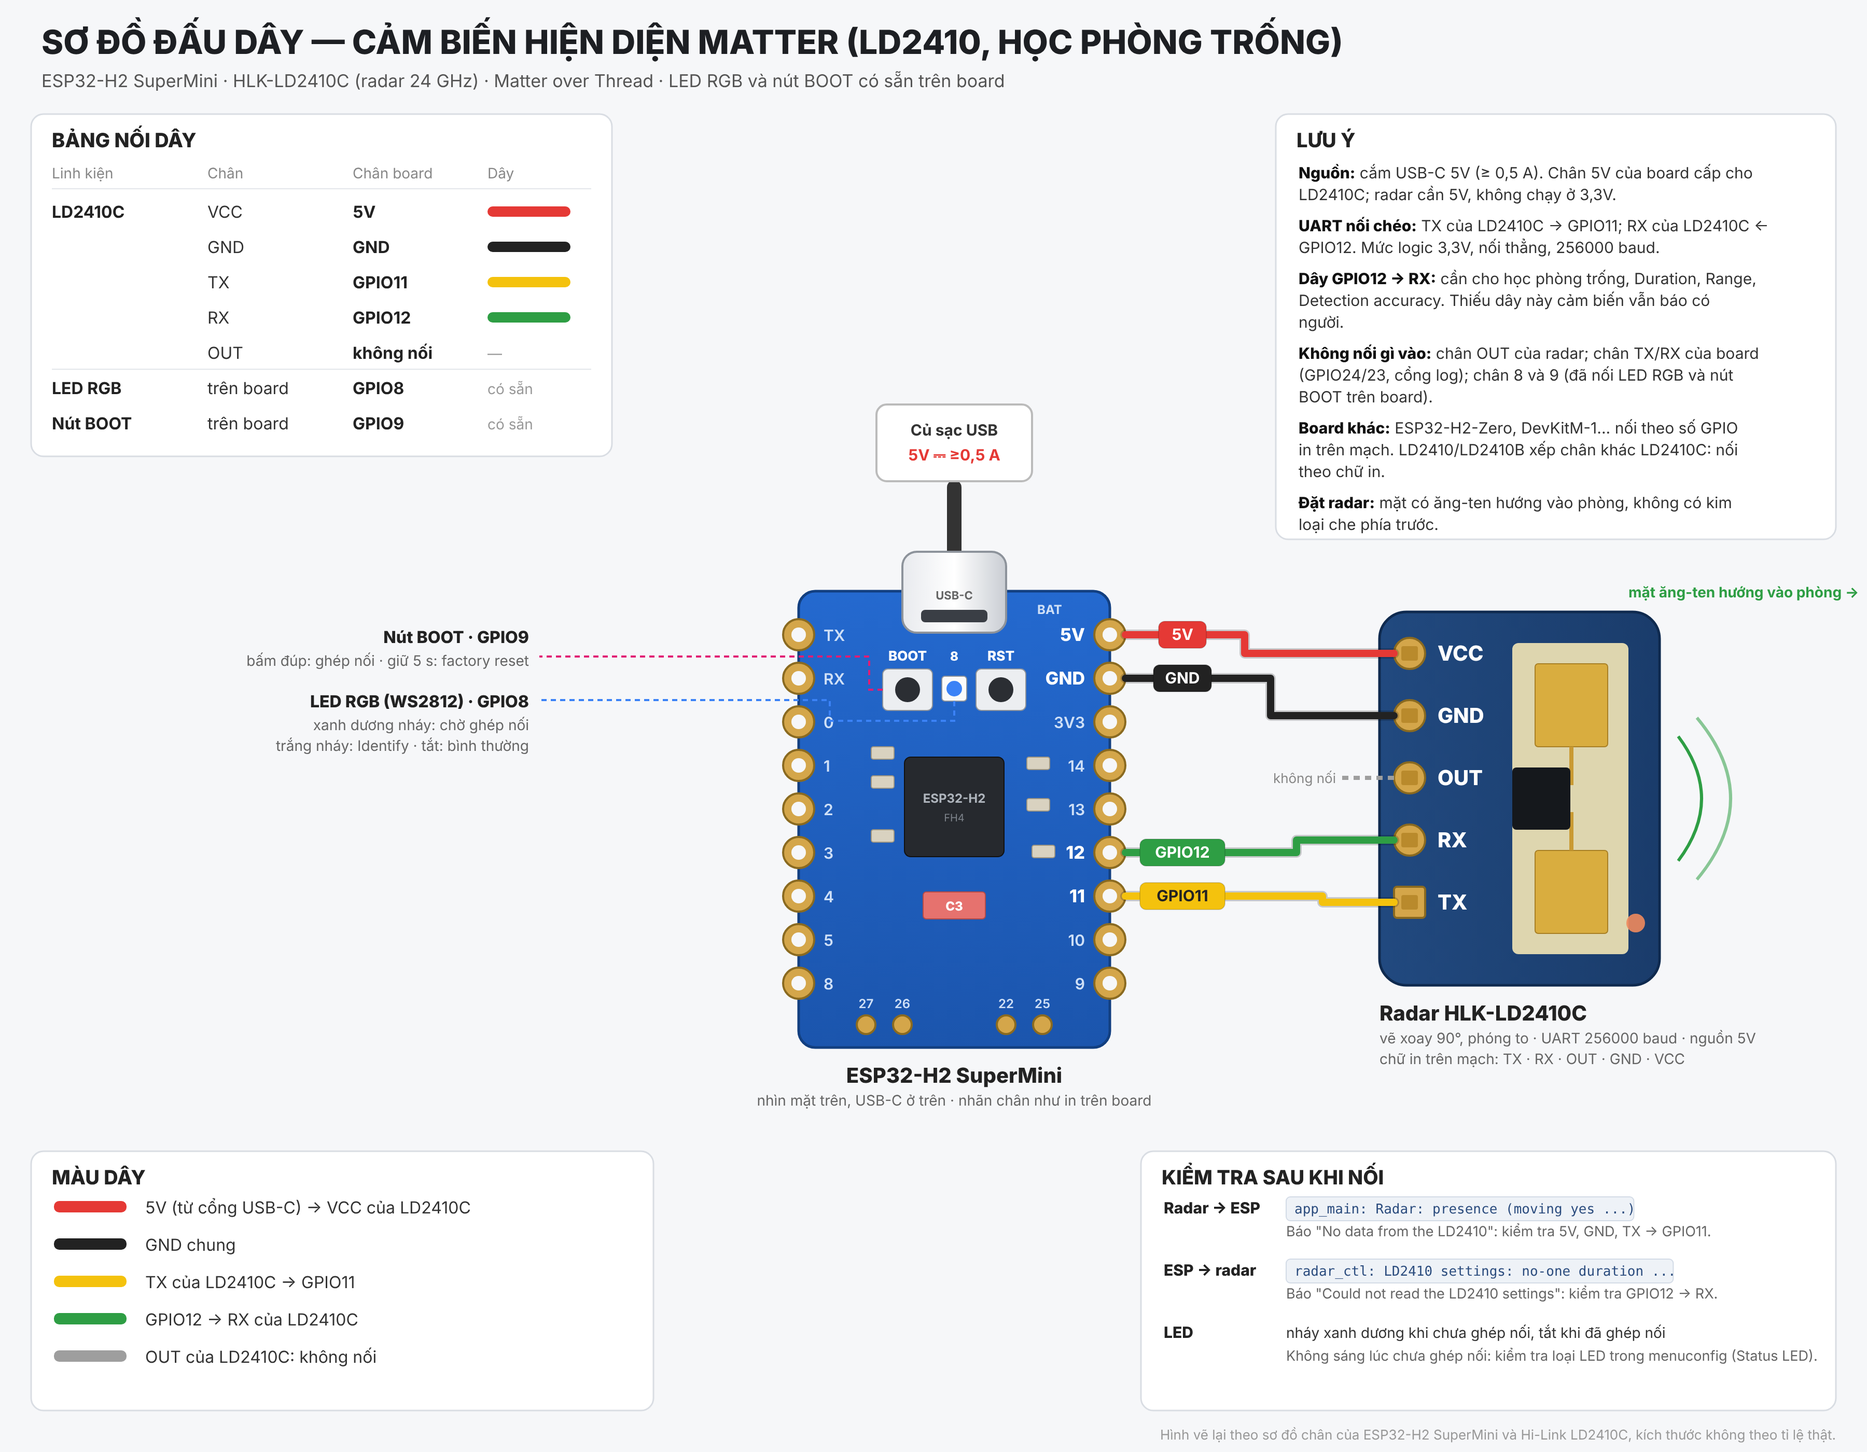
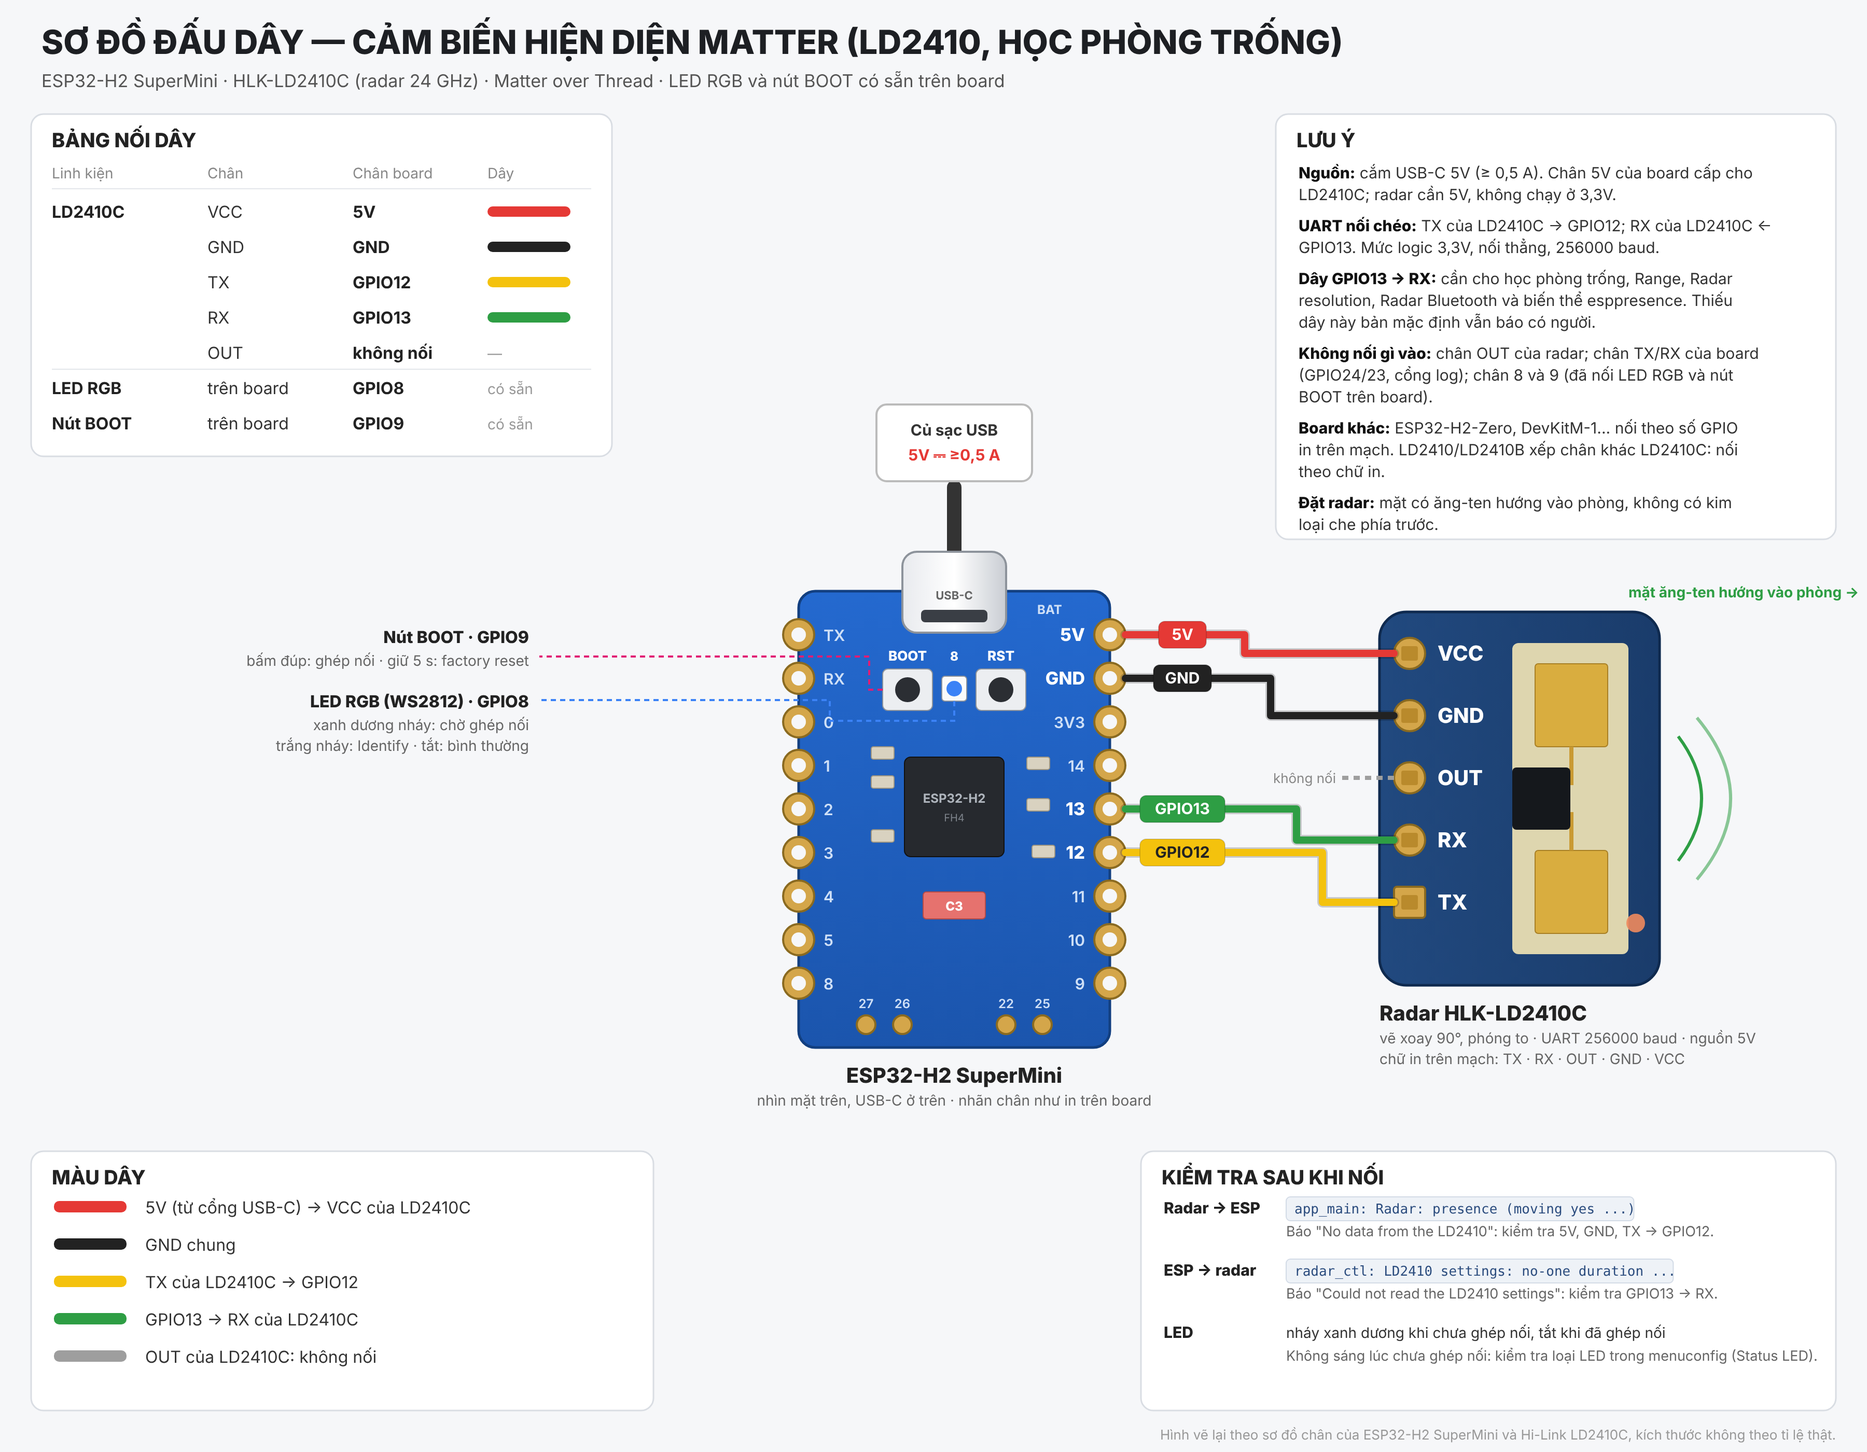
LD2410 learning sensor: ESP32-H2 radar on GPIO12 (radar TX) / GPIO13 (radar RX)
The ESP32-H2 default pins of the LD2410 move from RX GPIO11 / TX GPIO12 to
RX GPIO12 / TX GPIO13, the wiring of the user's ESP32-H2 SuperMini boards.
GPIO13 is free: the RTC clock is the internal RC; with an external 32 kHz
crystal or oscillator GPIO13/GPIO14 are now reserved pins (build error).
The ESP32-C3 pins (GPIO3/GPIO4) and the original matter-presence-occupancy
project are unchanged.

Boards wired the old way must be rewired before updating; the README says
how, and how to keep the old pins in menuconfig. Wiring diagram redrawn.

Claude-Session: https://claude.ai/code/session_019h46AWxLmXyJQ9JoGU7vKJ

Changed region(s): [[0.5911, 0.5282, 0.7156, 0.6525], [0.7156, 0.1864, 0.9333, 0.2175]]

diff --git a/ESP32-H2/matter-presence-ld2410-learning/main/board_esp32h2.h b/ESP32-H2/matter-presence-ld2410-learning/main/board_esp32h2.h
@@ -8,7 +8,7 @@
 
 // ESP32-H2 SuperMini or ESP32-H2-DevKitM-1: Matter over Thread on the
 // 802.15.4 radio, commissioning over BLE. Pins in sdkconfig.defaults.esp32h2:
-// LD2410 on GPIO11 (radar TX) / GPIO12 (radar RX), BOOT button GPIO9, WS2812
+// LD2410 on GPIO12 (radar TX) / GPIO13 (radar RX), BOOT button GPIO9, WS2812
 // LED GPIO8 (both boards).
 //
 // Other pins to keep in mind: strapping pins GPIO2, GPIO3, GPIO8, GPIO9,
@@ -20,6 +20,13 @@
 #define BOARD_NAME "ESP32-H2 SuperMini / DevKitM-1"
 #define BOARD_NETWORK "Thread"
 
-// GPIO15-GPIO21 connect the in-package flash of ESP32-H2.
+// GPIO15-GPIO21 connect the in-package flash of ESP32-H2. GPIO13/GPIO14 are
+// the 32 kHz crystal pins, taken only when the RTC clock comes from an
+// external crystal or oscillator (default: the internal RC).
+#if CONFIG_RTC_CLK_SRC_EXT_CRYS || CONFIG_RTC_CLK_SRC_EXT_OSC
+#define BOARD_PIN_RESERVED(gpio) (((gpio) >= 15 && (gpio) <= 21) || (gpio) == 13 || (gpio) == 14)
+#define BOARD_PIN_RESERVED_TEXT "flash pins (GPIO15-GPIO21) or 32 kHz crystal pins (GPIO13, GPIO14)"
+#else
 #define BOARD_PIN_RESERVED(gpio) ((gpio) >= 15 && (gpio) <= 21)
 #define BOARD_PIN_RESERVED_TEXT "flash pins (GPIO15-GPIO21)"
+#endif

diff --git a/ESP32-H2/matter-presence-ld2410-learning/README.md b/ESP32-H2/matter-presence-ld2410-learning/README.md
@@ -1,6 +1,6 @@
 # Matter Presence Sensor + học phòng trống (ESP32-H2 + HLK-LD2410, Thread)
 
-> Bản fork của [`matter-presence-occupancy`](../matter-thread/matter-presence-occupancy) (bản đang chạy ổn định, giữ nguyên). Khác biệt: thêm 4 điều khiển LD2410 trong **Home Assistant** (không hiện trong Apple Home): **học phòng trống** giúp radar bớt báo nhầm có người, **Range** và **Radar resolution** chỉnh khoảng cách phát hiện và độ phân giải của radar, **Radar Bluetooth** bật/tắt Bluetooth của radar (mặc định tắt); thời gian chờ chỉnh bằng **Hold time**. Học phòng trống cũng bắt đầu được bằng cách **bấm nút BOOT 3 lần**, LED báo từng bước; **bấm 4 lần** ghi lại ngưỡng mặc định của radar (LED nháy tím). Tên thiết bị: **Presence-** + 4 ký tự cuối của số serial, ví dụ **Presence-B2C3** (mỗi mạch một tên). Phần cứng, chân nối, ghép nối giống hệt bản gốc; LED và nút bấm thêm phần học phòng trống. Biến thể thử nghiệm **`espfilter`**: ESP tự xác nhận các phát hiện yếu của radar trước khi báo có người (mục **Bộ lọc năng lượng trên ESP32**). Biến thể thử nghiệm **`esppresence`**: ESP tự quyết định có người từ năng lượng từng vùng của radar, cùng bộ xử lý với bản ESP32-C3-WROOM 1.0.166, cho ESP32-H2 SuperMini và ESP32-C3 SuperMini (mục **Bộ xử lý hiện diện trên ESP32**).
+> Bản fork của [`matter-presence-occupancy`](../matter-thread/matter-presence-occupancy) (bản đang chạy ổn định, giữ nguyên). Khác biệt: thêm 4 điều khiển LD2410 trong **Home Assistant** (không hiện trong Apple Home): **học phòng trống** giúp radar bớt báo nhầm có người, **Range** và **Radar resolution** chỉnh khoảng cách phát hiện và độ phân giải của radar, **Radar Bluetooth** bật/tắt Bluetooth của radar (mặc định tắt); thời gian chờ chỉnh bằng **Hold time**. Học phòng trống cũng bắt đầu được bằng cách **bấm nút BOOT 3 lần**, LED báo từng bước; **bấm 4 lần** ghi lại ngưỡng mặc định của radar (LED nháy tím). Tên thiết bị: **Presence-** + 4 ký tự cuối của số serial, ví dụ **Presence-B2C3** (mỗi mạch một tên). Phần cứng và ghép nối giống bản gốc; từ firmware 1.0.140 radar nối **TX → GPIO12, RX ← GPIO13** (bản gốc: GPIO11/12, mục **Sơ đồ nối dây**); LED và nút bấm thêm phần học phòng trống. Biến thể thử nghiệm **`espfilter`**: ESP tự xác nhận các phát hiện yếu của radar trước khi báo có người (mục **Bộ lọc năng lượng trên ESP32**). Biến thể thử nghiệm **`esppresence`**: ESP tự quyết định có người từ năng lượng từng vùng của radar, cùng bộ xử lý với bản ESP32-C3-WROOM 1.0.166, cho ESP32-H2 SuperMini và ESP32-C3 SuperMini (mục **Bộ xử lý hiện diện trên ESP32**).
 
 Cảm biến hiện diện chuẩn **Matter over Thread** chạy trên **ESP32-H2** với radar 24 GHz **HLK-LD2410**. Đây là bản chuyển từ Zigbee (`ESP32-H2/zigbee-presence-occupancy`) sang Matter: cùng chip ESP32-H2, cùng radio 802.15.4, nhưng thay Zigbee bằng Thread + Matter. Thêm trực tiếp vào **Apple Home**, Google Home, Home Assistant, SmartThings, Alexa... mà không cần Zigbee coordinator / Zigbee2MQTT.
 
@@ -95,7 +95,7 @@ I quiet_learn: Learning done: new thresholds saved in the LD2410 (600 reports)
 Các trường hợp khác:
 - Chọn **Off** trong lúc đang học: huỷ, không ghi gì vào radar. LED trở lại bình thường ngay (không xanh, không đỏ).
 - Bấm 3 lần khi đang học: không có tác dụng (log `Empty room learning already requested or running`).
-- Radar không trả lời lệnh: học thất bại, không ghi gì; LED có thể chậm vài giây mới chuyển cyan, cyan khoảng 13 s rồi **đỏ 10 s**, log báo kiểm tra dây **GPIO12 → chân RX của LD2410** (bản gốc chỉ đọc radar nên có thể chưa nối dây này).
+- Radar không trả lời lệnh: học thất bại, không ghi gì; LED có thể chậm vài giây mới chuyển cyan, cyan khoảng 13 s rồi **đỏ 10 s**, log báo kiểm tra dây **GPIO13 → chân RX của LD2410** (bản gốc chỉ đọc radar nên có thể chưa nối dây này).
 - Cũng là học thất bại (LED đỏ 10 s): radar không gửi báo cáo engineering trong lúc ghi, không nhận ngưỡng mới hoặc đọc lại không khớp (khi đó radar có thể giữ lẫn ngưỡng cũ và mới: học lại; log `quiet_learn` ghi rõ lý do), không đủ bộ nhớ cho bản ghi (khoảng 3,6 KB, chỉ cấp trong lúc học), hoặc bấm nút 3 lần khi task radar không chạy được.
 - Thời gian chờ, thời gian ghi, mức 95 %, mức +10 và giới hạn +30 chỉnh được trong `menuconfig` → *Empty Room Learning*; LED cyan và cyan nháy theo đúng hai thời gian, màu xanh lá hoặc đỏ luôn 10 s.
 - Build tại máy với file `sdkconfig` có sẵn từ bản trước: thời gian chờ và thời gian ghi vẫn là 10 s và 30 s. Chạy `idf.py set-target esp32h2` (tạo lại `sdkconfig` từ mặc định) hoặc đổi trong `menuconfig`. Firmware do GitHub Actions build luôn dùng mặc định mới.
@@ -115,7 +115,7 @@ Trong mục *Cấu hình* của thiết bị trên Home Assistant, các entity x
 - Radar resolution và Range được ghi vào **bộ nhớ của LD2410** (giữ khi mất điện, khi nạp lại firmware ESP32-H2) rồi đọc lại để kiểm tra; Home Assistant hiển thị giá trị radar thực sự đang giữ. Radar mới xuất xưởng là `0.75 m` và `6 m`; firmware không ghi đè giá trị radar đang giữ (kể cả giá trị chỉnh bằng app HLKRadarTool). Lúc khởi động firmware đọc thông số của radar (log `radar_ctl: LD2410 settings: ...`).
 - Radar đang giữ gate xa nhất khác nhau cho chuyển động và đứng yên (đặt bằng HLKRadarTool) thì Range có thêm đúng giá trị đó, ví dụ `Moving 4.5 m, still 3 m`.
 - **Range** do radar xử lý: mục tiêu xa hơn bị bỏ qua hoàn toàn (ví dụ không bắt người ở phòng bên qua vách mỏng). Tuỳ chọn *Only count targets closer than* trong menuconfig thì lọc trong firmware, sau khi radar đã báo.
-- Radar chưa trả lời lệnh (chưa nối dây **GPIO12 → chân RX của LD2410**): thay đổi trong Home Assistant bị bỏ qua, entity giữ giá trị cũ; firmware thử đọc lại radar sau 15 s, 30 s, 1 min... (tối đa 5 min một lần).
+- Radar chưa trả lời lệnh (chưa nối dây **GPIO13 → chân RX của LD2410**): thay đổi trong Home Assistant bị bỏ qua, entity giữ giá trị cũ; firmware thử đọc lại radar sau 15 s, 30 s, 1 min... (tối đa 5 min một lần).
 - **Radar resolution**: radar có 9 gate (0–8) nên gate 0,2 m chỉ phủ tới khoảng 1,6 m, hợp với chỗ ngồi gần như bàn làm việc, đầu giường. Đổi độ phân giải thì firmware ghi vào LD2410 rồi **khởi động lại radar** (mất tín hiệu khoảng 1–3 s) và đọc lại; các lựa chọn của Range tự đổi theo (ví dụ `6 m` thành `1.6 m`). Ngưỡng từng gate đã học là cho độ dài gate cũ, nên **học lại phòng trống** sau khi đổi. Radar không trả lời lệnh độ phân giải (LD2410 đời đầu, firmware cũ) thì entity chỉ có `0.75 m`.
 - Đang học phòng trống thì thay đổi Range/Radar resolution/Radar Bluetooth được áp dụng ngay sau khi học xong.
 - Mỗi endpoint Matter chỉ có một cluster *Mode Select*, nên Range, Radar resolution và Radar Bluetooth nằm trên 3 endpoint riêng (2, 3 và 4) kiểu thiết bị *Mode Select* (0x0027). Apple Home không hỗ trợ kiểu thiết bị này nên vẫn chỉ hiện cảm biến chiếm chỗ (dự kiến theo tài liệu, chưa thử trên thiết bị Apple thật).
@@ -373,7 +373,7 @@ Cùng phòng đó trước khi học lại (vùng 2 còn ngưỡng radar 40): `s
 
 ### Phạm vi, chân và khôi phục radar
 
-- **Chân UART của radar:** như bản ổn định (ESP32-H2: radar TX → GPIO11, RX ← GPIO12; ESP32-C3: TX → GPIO3, RX ← GPIO4), không đổi trong biến thể này.
+- **Chân UART của radar:** như bản mặc định (ESP32-H2: radar TX → GPIO12, RX ← GPIO13; ESP32-C3: TX → GPIO3, RX ← GPIO4), không đổi trong biến thể này.
 - **Phạm vi:** select **Range** trên Home Assistant (vùng xa nhất, ghi vào radar khi chọn) và `PRESENCE_MAX_DISTANCE_CM` (bỏ các vùng bắt đầu xa hơn khoảng cách đó, tính ở ESP32). Vùng ngoài phạm vi không được tính. Nhiễu được đo ở mọi vùng, nên mở rộng Range sau đó không cần học lại.
 - **Báo cáo không có năng lượng:** task `radar_cfg` bật lại engineering mode, kiểm tra mỗi 2 s, gửi lệnh tối đa 10 s một lần.
 - **Radar im lặng 5 s**, và đã 5 s sau phiên cấu hình gần nhất (trong phiên, radar không gửi báo cáo):
@@ -501,22 +501,24 @@ Kết quả ở `build-esppresence/`: `matter_presence_h2_learn.bin` / `matter_p
 
 ### Sơ đồ nối dây
 
-![Sơ đồ đấu dây: ESP32-H2 SuperMini và radar HLK-LD2410C (VCC 5V, GND, TX → GPIO11, RX ← GPIO12), LED RGB GPIO8 và nút BOOT GPIO9 có sẵn trên board](docs/wiring.png)
+![Sơ đồ đấu dây: ESP32-H2 SuperMini và radar HLK-LD2410C (VCC 5V, GND, TX → GPIO12, RX ← GPIO13), LED RGB GPIO8 và nút BOOT GPIO9 có sẵn trên board](docs/wiring.png)
 
-Hình vẽ lại theo sơ đồ chân của ESP32-H2 SuperMini và HLK-LD2410C, không theo tỉ lệ. Trên SuperMini, 5V, GND, GPIO12 và GPIO11 nằm cùng một hàng chân bên phải. Chân 8 và 9 đã nối sẵn LED RGB và nút BOOT trên board: không nối gì thêm vào. Board ESP32-H2 khác thì nối theo số GPIO in trên mạch; LD2410 và LD2410B xếp chân khác LD2410C: nối theo chữ in trên mạch radar.
+Hình vẽ lại theo sơ đồ chân của ESP32-H2 SuperMini và HLK-LD2410C, không theo tỉ lệ. Trên SuperMini, 5V, GND, GPIO13 và GPIO12 nằm cùng một hàng chân bên phải. Chân 8 và 9 đã nối sẵn LED RGB và nút BOOT trên board: không nối gì thêm vào. Board ESP32-H2 khác thì nối theo số GPIO in trên mạch; LD2410 và LD2410B xếp chân khác LD2410C: nối theo chữ in trên mạch radar.
 
 | LD2410 | ESP32-H2 |
 |---|---|
-| TX | **GPIO11** |
-| RX | **GPIO12** |
+| TX | **GPIO12** |
+| RX | **GPIO13** |
 | VCC | **5V** |
 | GND | GND |
 
-LD2410 cần nguồn **5V**, nhưng mức logic UART là 3.3V nên nối thẳng vào ESP32-H2 được. Radar dùng **UART1** ở 256000 baud; UART0 (GPIO23/24) để dành cho log và console. Đổi chân trong `menuconfig` → *Presence Sensor Configuration* nếu cần, tránh các chân strapping (GPIO2, GPIO3, GPIO8, GPIO9, GPIO25) và chân flash (GPIO15–GPIO21).
+LD2410 cần nguồn **5V**, nhưng mức logic UART là 3.3V nên nối thẳng vào ESP32-H2 được. Radar dùng **UART1** ở 256000 baud; UART0 (GPIO23/24) để dành cho log và console. Đổi chân trong `menuconfig` → *Presence Sensor Configuration* nếu cần, tránh các chân strapping (GPIO2, GPIO3, GPIO8, GPIO9, GPIO25) và chân flash (GPIO15–GPIO21). GPIO13 dùng được vì firmware lấy xung RTC từ bộ dao động RC bên trong; nếu bật thạch anh 32 kHz ngoài (GPIO13/14) thì build báo lỗi khi radar dùng hai chân đó.
+
+**Đổi chân từ firmware 1.0.140:** bản trước dùng radar TX → GPIO11, RX ← GPIO12 (như bản gốc `matter-presence-occupancy`, bản đó không đổi). Bo đang nối kiểu cũ phải **chuyển dây trước khi cập nhật**: TX của radar từ GPIO11 sang GPIO12, RX của radar từ GPIO12 sang GPIO13. Không chuyển dây thì sau khi cập nhật ESP không đọc được radar (log `No data from the LD2410`), và GPIO12 của ESP với TX của radar cùng xuất tín hiệu trên một dây. Muốn giữ dây cũ: build với `CONFIG_LD2410_UART_RX_PIN=11` và `CONFIG_LD2410_UART_TX_PIN=12` trong `menuconfig` → *Presence Sensor Configuration*. Tự build trong thư mục đã có `sdkconfig` cũ (hay `sdkconfig.esppresence`, `sdkconfig.espfilter`) thì chân cũ vẫn được giữ: xoá các file đó trước khi build. Firmware ghi chân đang dùng trong log khởi động (`Pins: LD2410 RX GPIO12 ...`).
 
 | Chức năng | Chân |
 |---|---|
-| Radar LD2410 (UART1) | RX = GPIO11, TX = GPIO12 |
+| Radar LD2410 (UART1) | RX = GPIO12 (TX của radar), TX = GPIO13 (RX của radar) |
 | LED RGB WS2812 trên board | GPIO8 |
 | Nút BOOT: bấm đúp = chế độ ghép nối, bấm 3 lần = học phòng trống, bấm 4 lần = ngưỡng mặc định, giữ 5 s = factory reset | GPIO9 |
 
@@ -709,7 +711,7 @@ Lúc khởi động, log in chip, board và chân đang dùng:
 
 ```
 I app_main: Target esp32h2, board ESP32-H2 SuperMini / DevKitM-1, Matter over Thread
-I app_main: Pins: LD2410 RX GPIO11 (radar TX), TX GPIO12 (radar RX), button GPIO9, LED GPIO8 (WS2812)
+I app_main: Pins: LD2410 RX GPIO12 (radar TX), TX GPIO13 (radar RX), button GPIO9, LED GPIO8 (WS2812)
 ```
 
 *Device Information*:

diff --git a/ESP32-C3/matter-wifi-presence/README.md b/ESP32-C3/matter-wifi-presence/README.md
@@ -14,7 +14,7 @@ Mọi chức năng giống hệt bản ESP32-H2, cùng thuật toán, ngưỡng,
 | Mạng Matter | Thread (802.15.4), cần Thread Border Router | **Wi-Fi 2,4 GHz** (station), nối thẳng router nhà |
 | Ghép nối | BLE, điện thoại gửi dataset Thread | BLE, điện thoại gửi **SSID và mật khẩu Wi-Fi** |
 | Tìm thấy trên mạng | DNS-SD qua SRP của Border Router | mDNS trên mạng LAN |
-| Radar LD2410 (UART1) | TX → GPIO11, RX ← GPIO12 | **TX → GPIO3, RX ← GPIO4** |
+| Radar LD2410 (UART1) | TX → GPIO12, RX ← GPIO13 (từ 1.0.140; trước đó GPIO11/12) | **TX → GPIO3, RX ← GPIO4** |
 | LED | WS2812 RGB, GPIO8 | **LED xanh dương một màu, GPIO8**, sáng khi chân ở mức thấp |
 | Nút | BOOT, GPIO9 | BOOT, GPIO9 |
 | Log | UART0 (GPIO23/24) + USB-Serial-JTAG | **USB-Serial-JTAG** (cổng USB-C, GPIO18/19) |
